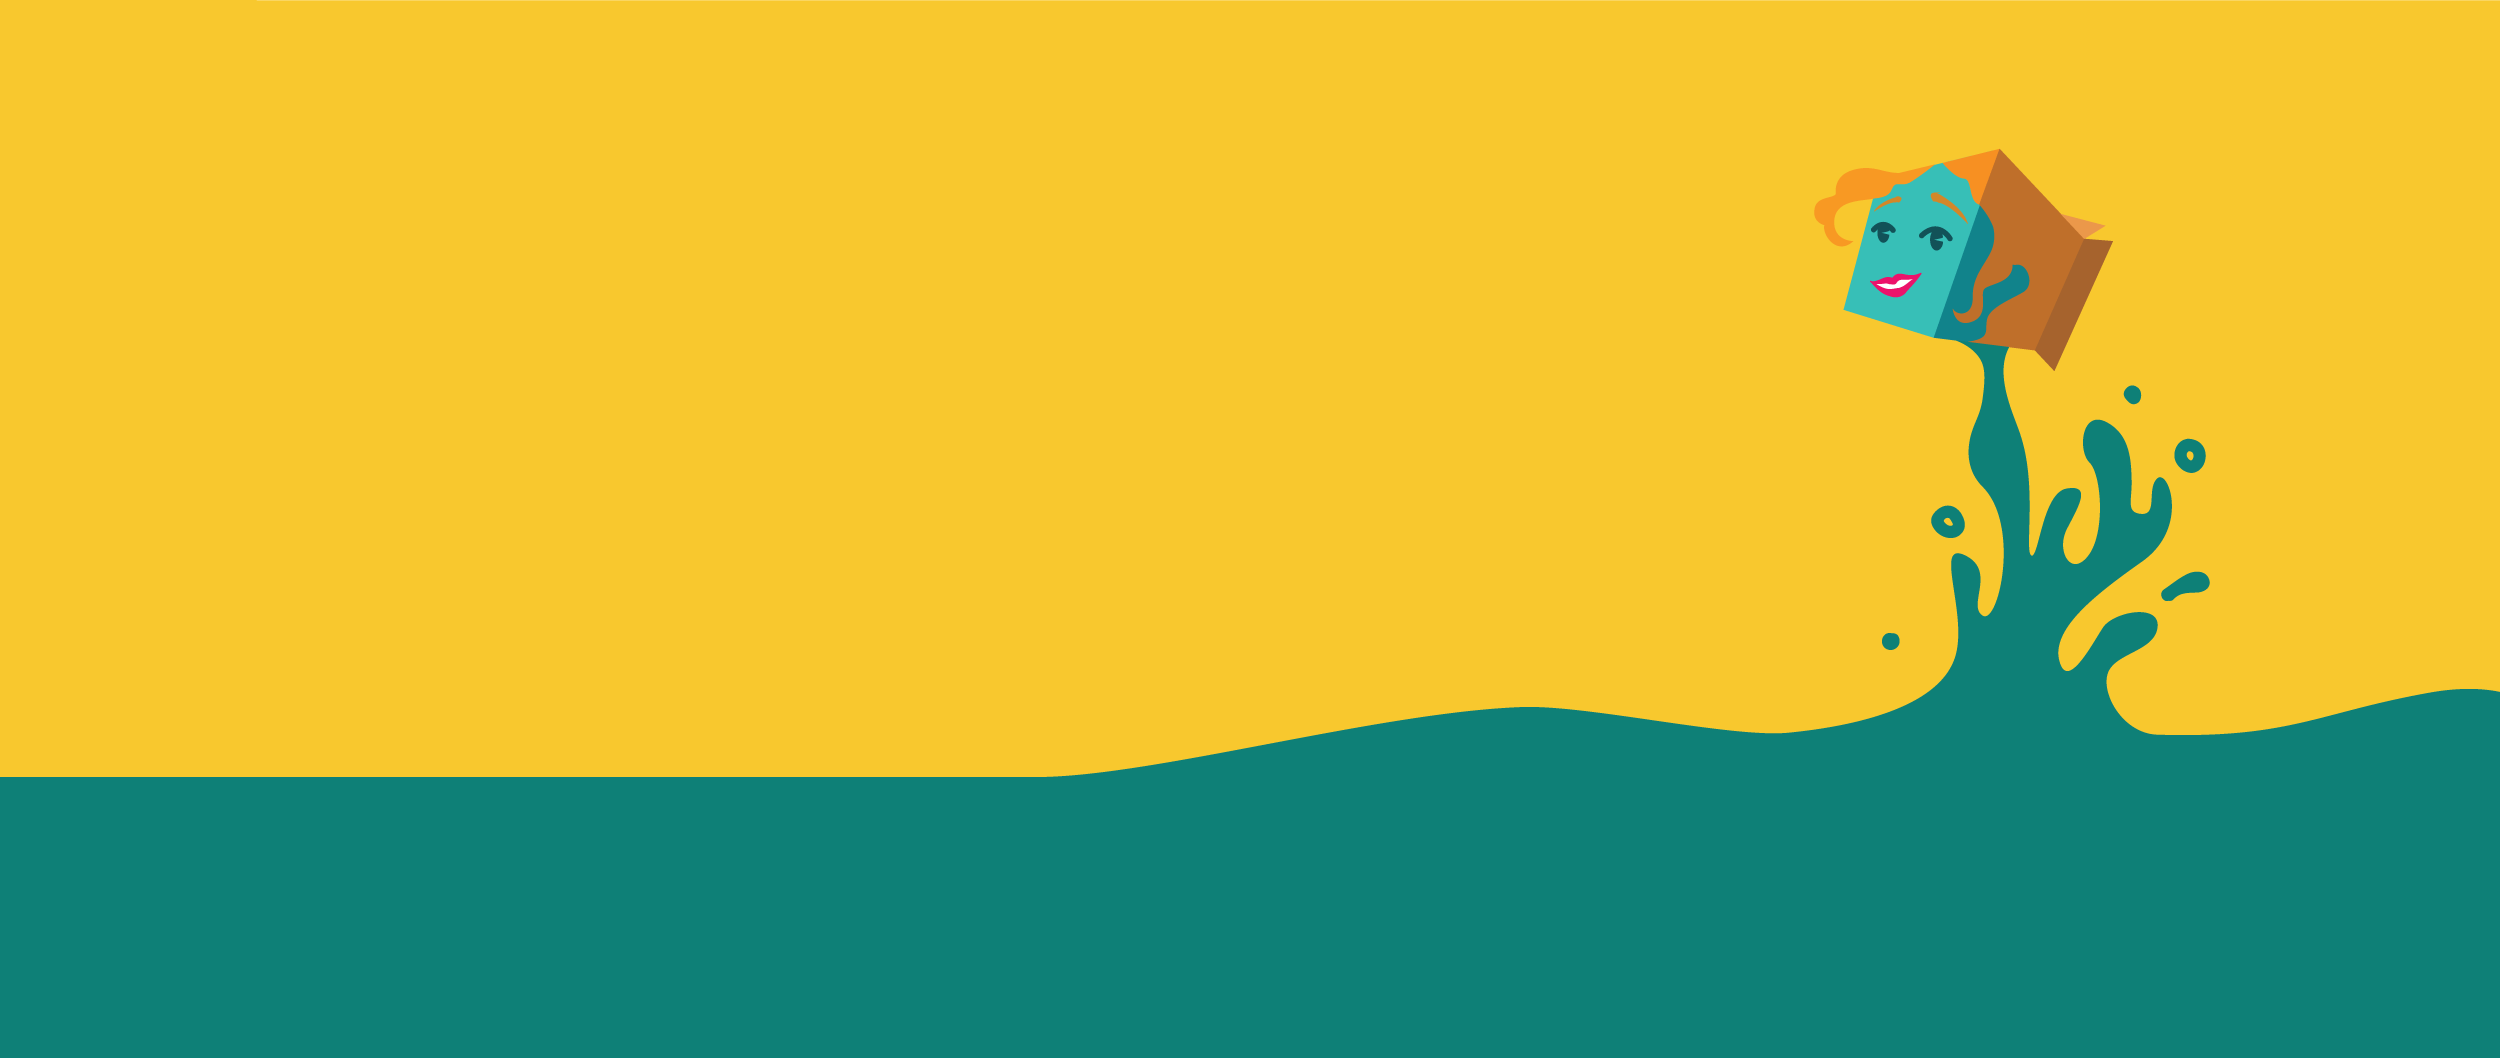
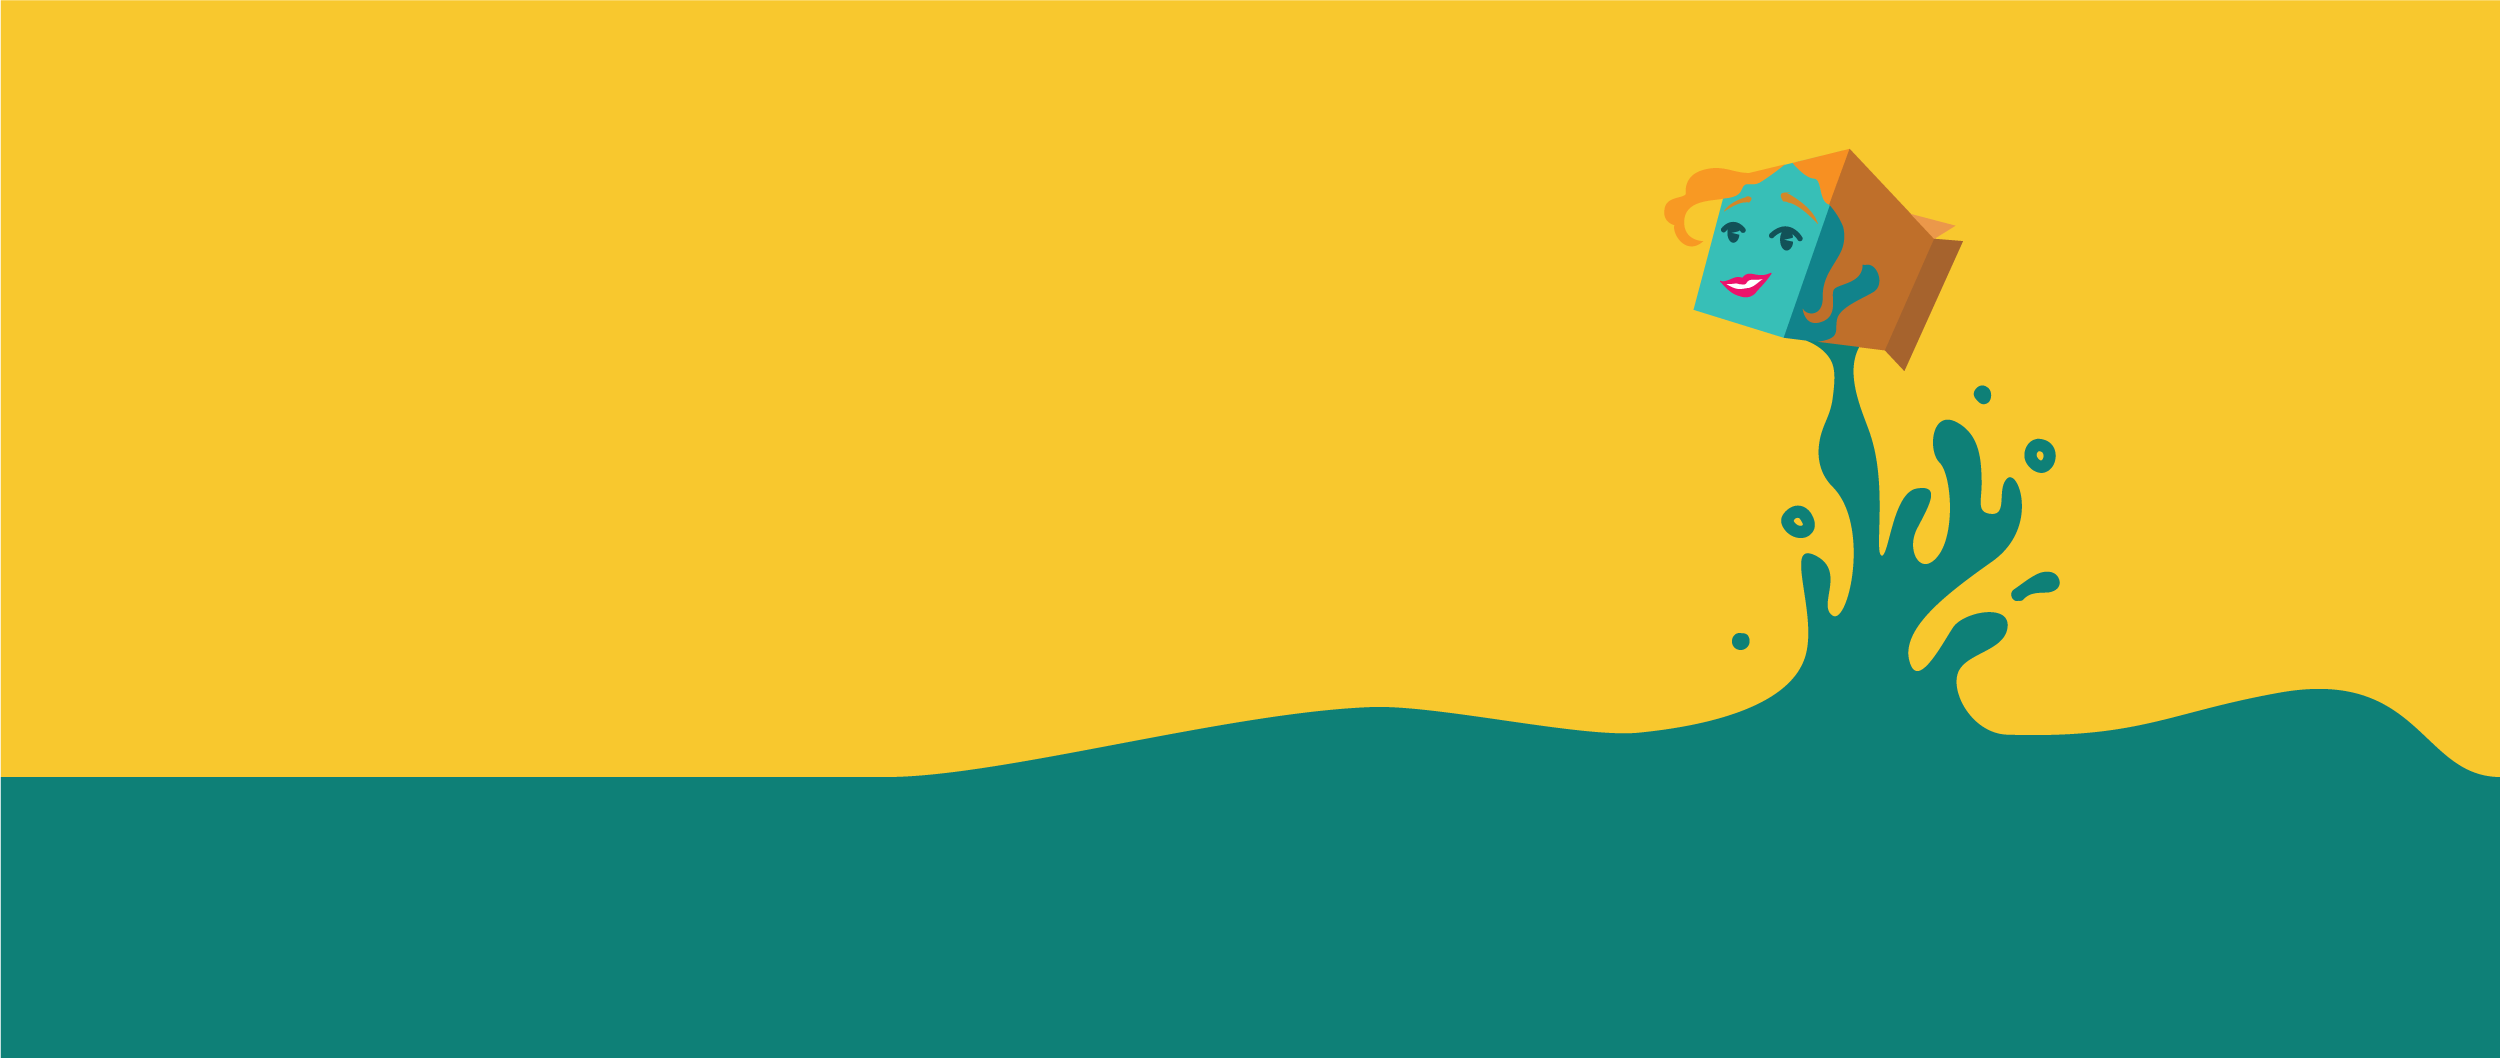
ver2back to top button

Changed region(s): [[0.3744, 0.1248, 1.0, 0.7486]]

diff --git a/index.html b/index.html
@@ -21,13 +21,12 @@
 			  <div class="hamburger"></div>
 		    </div>
             <ul class="open desktop">
-              <li><a href="portfolio.html">Portfolio</a></li>
+              <li><a name="top"href="portfolio.html">Portfolio</a></li>
               <li><a href="about.html">About</a></li>
               <li><a href="contact.html">Contact</a></li>
             <li id="hire"><a href="mailto:ana.baranjin@gmail.com"><b>HIRE ME</b></a></li>
             </ul>
           </nav>
-
 		<script type="text/javascript">
 		$(document).ready(function(){
 		  $('.menu-toggle').click(function() {
@@ -84,14 +83,15 @@ because that is what I do!<br>
 	<h2>Climbing <span>these mountain tops</span></h2>
 
 	  </style>
-	  <p id="quotes">"Ana is a greatest designer ever!"<br>
-		-Ana's Mom.</p>
+	  <p id="quotes">"Ana instantly picked up on the theme/style/feel I wanted for my business. Every new creation was a surprise, yet perfectly melded with the rest. Even when I don’t know what I’m looking for, but I somehow need it the next day, she always seems to, not only find it, but also meet the impossible deadlines I often pose…even in a different time zone! When I explain to her exactly what I need, she follows through flawlessly with my requests."<br>
+		-Pocket of Sunshine Farms</p>
 	  <script type="text/javascript" id="quotes">
 	  var quote=new Array();
 		quote[0]='"Ana took the time to figure me and my brand out and delivered better than I could have imagined! Will absolutely be working with her on new projects and wouldn\'t hesitate to recommend her to anyone! Really great designer with great communication." <br>-Queens of Kush';    /* add as many quotes as you like!*/
 		quote[1]='"Ana\'s designs were clear, elegant and eye-catching from the first design she provided. Every feedback was perfectly taken care of, and she also had her own oppinions which she shared."<br> -YelloSpace';
 		quote[2]='"Ana\'s educational background in art and business makes her a one of a kind graphic designer who not only makes great designs, but at the same time has a customer in mind. I had a pretty demanding business logo design for Ana and she delivered an excellent work."<br> -Mind Central';
-		quote[3]='Working with Ana is such a fun process! I\'ve worked with her on multiple projects and just by giving her a few ideas about what I wanted, she was able to create the perfect design."<br> -Grass Powered Poultry and Meats';
+		quote[3]='"Working with Ana is such a fun process! I\'ve worked with her on multiple projects and just by giving her a few ideas about what I wanted, she was able to create the perfect design."<br> -Grass Powered Poultry and Meats';
+
 
 
 	  var speed=9000;    /*this is the time in milliseconds adjust to suit*/
@@ -223,16 +223,18 @@ $(document).ready(function(){
 
 </section>
 
+
+<div id="back-to-top">
+  <a href="#top"><img style="width:80%;"src="images/arrow-up.png"/></a>
+</div>
 <section id="bike">
 <div class="container">
+
   <a href="https://en.wikipedia.org/wiki/Belgrade" target="_blank"><img id="belgrade" class="belgrade"src="images/belgrade.png" /></a>
   <a href="contact.html"class="mail"><img src="images/mail2.png"style="width: 162px;" /></a>
 </div>
 </section>
 
-<!--<div class="container">
-<h2>Jos nesto pametno</h2>
-</div> ---->
 
 <footer>
 &copy;2017 Ana Baranjin. All rights reserved.

diff --git a/style.css b/style.css
@@ -34,6 +34,13 @@ p{
   font-size: 18px;
   text-align: center;
 }
+#back-to-top{
+  float: right;
+  margin-top: 33%;
+}
+#back-to-top img{
+  float: right;
+}
 /* The alert message box */
 .alert {
     padding: 32px;
@@ -219,7 +226,7 @@ header a:active {
 #welcome-page{
   text-align: center;
   background-color: #f9c82c;
-  background: url('images/welcome.png');
+  background: url('images/welcome2.png');
   /*background-attachment: fixed;*/
   background-position: center;
   background-repeat: no-repeat;
@@ -982,7 +989,7 @@ color: #932c1a;
 		font-family: helvetica;
 	}
 	.work-process-mobile img{
-		width: 90%;
+		width: 70%;
 		margin: 0 auto;
 	}
 	/* MOBILE Font size adjustments for the slider */
@@ -1210,6 +1217,10 @@ color: #932c1a;
   .alert {
       display: block;
   }
+#back-to-top{
+  margin-top: 10%;
+}
+/* not displaying on mobile or tablet???!!!! */
 
 	/* TABLET Welcome Section */
 	/* Swapping out the tablet background image and settings it so it will size with the screen*/

diff --git a/portfolio.html b/portfolio.html
@@ -42,7 +42,7 @@
 <section class="portfolio-T portfolio">
 <div class="container">
   <a href="folio1.html" alt="Mind Central"><img class="folio-overlay" src="images/folio/mindcentral.png"/><a>
-<p><b>MIND CENTRAL</b> &#8226; Psychotherapist Icon & Logo 2017 </p>
+<p><b>MIND CENTRAL</b> &#8226; Psychotherapist Icon & Logo 2017 </p>
 </div>
 </section>
 

diff --git a/about.html b/about.html
@@ -67,7 +67,7 @@
 
 
 <footer id="about-footer">
-©2017 Ana Baranjin. All rights reserved.
+&copy;2017 Ana Baranjin. All rights reserved.
 </footer>
 
 </body>
